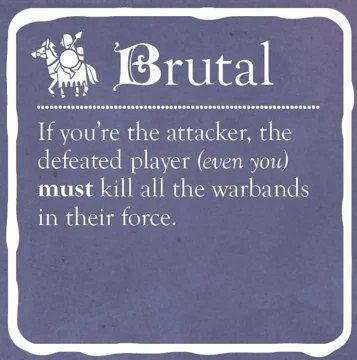
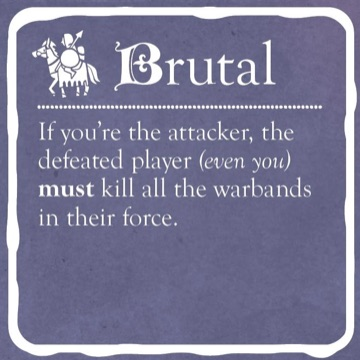
Oath UI: two cards at their siblings' size, and the favor token at its own shape.
`trait.brutal.jpg` is re-exported at 360x360 from its larger source, and
`denizen.nomad.ancient-binding.jpg` at 381x596, the size of every other
denizen. The Campaign panel's burn button draws `token.favor.png` at its own
aspect ratio rather than squeezing it into a square.

diff --git a/games/oath-ui/src/lib/components/CampaignBattlePanel.svelte b/games/oath-ui/src/lib/components/CampaignBattlePanel.svelte
@@ -323,7 +323,7 @@
                     title="Take the spoils and burn half the defeated player's favor, {spoils.burnAmount} of it"
                     onclick={() => spoils.takeSpoils(true)}
                 >
-                    <img class="h-5 w-5 burn" src={favorTokenImage()} alt="" />
+                    <img class="h-5 w-auto burn" src={favorTokenImage()} alt="" />
                     …and burn {spoils.burnAmount} favor
                 </button>
             {/if}
